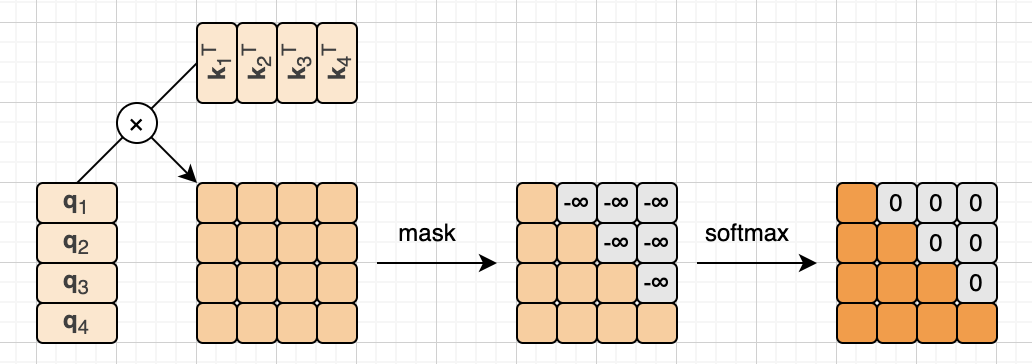
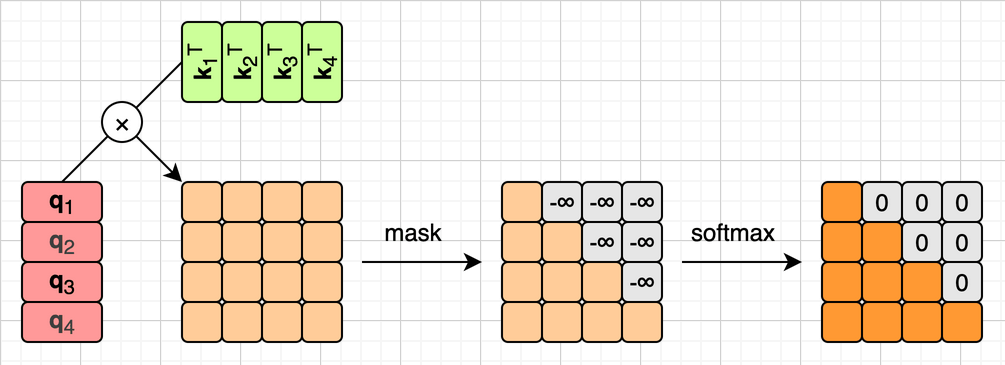
【toyllm】第六章补注意力展开式；新增 draw.io 导出脚本，shrink-images 阈值提到 0.2
- ch06：在加权求和之后把 p_ab 代入 Softmax 展开成一行，点出“缩放点积”
  的由来和位置无关性，为下一章 RoPE 铺垫；退化成平均的解释改为指向
  RoPE 和 FFN 两章
- books/toyllm/export_drawio.py：按页名把 draw/chNN.drawio 导出到
  images/chNN/，用无头 Chrome 叠上编辑器网格，导完自动调用 shrink-images
- shrink-images：带网格的插图量化误差到 0.136，AUTO 阈值从 0.1 提到 0.2；
  省得少时区分“已压过”和“误差超阈值只做了无损”两种原因；uv 加
  --native-tls
- toyllm/CLAUDE.md：第六章仍有本章代码块和破折号，状态改回 ch01–ch05

diff --git a/books/toyllm/export_drawio.py b/books/toyllm/export_drawio.py
@@ -1,0 +1,200 @@
+#!/usr/bin/env python3
+"""把某一章的 draw/chNN.drawio 逐页导出成 images/chNN/<页名>.png。
+
+一章一个 .drawio 文件，一页一张图，页名就是图片的文件名。导出靠 draw.io 桌面版
+自带的命令行，只用标准库，系统自带的 python3 就能跑。
+
+图上默认带着编辑器里那种网格。draw.io 的命令行导不出网格，所以分两步：
+draw.io 先导出透明背景的 PNG，再让无头 Chrome 把它叠到画好网格的白底上截图。
+网格的尺寸和颜色，是从 VS Code 插件里截的旧图上量出来的。
+
+导完再调用仓库的 shrink-images 技能（.claude/skills/shrink-images/），把刚导出的图
+压成8位调色板，一般能省一半多。压缩要用 uv，第一次会下载 pillow。
+
+用法（在 books/toyllm 下）：
+    python3 export_drawio.py ch06             # 也可以写成 6
+    python3 export_drawio.py ch06 view        # 只导出页名是 view 的那一页
+    python3 export_drawio.py ch06 view mask   # 可以一次写好几页
+    python3 export_drawio.py ch06 -n          # 只列出会导出什么，不真导出
+    python3 export_drawio.py ch06 --no-grid   # 纯白底，不要网格
+    python3 export_drawio.py ch06 --no-shrink # 导完不压缩
+
+注意 images/ 不在 git 里，导出会直接覆盖同名的图，覆盖了就找不回来。
+"""
+
+import argparse
+import shutil
+import subprocess
+import sys
+import tempfile
+import xml.etree.ElementTree as ET
+from pathlib import Path
+
+DRAWIO = "/Applications/draw.io.app/Contents/MacOS/draw.io"
+CHROME = "/Applications/Google Chrome.app/Contents/MacOS/Google Chrome"
+ROOT = Path(__file__).resolve().parent  # books/toyllm
+REPO = ROOT.parent.parent               # ann-book，仓库根
+SHRINK = REPO / ".claude" / "skills" / "shrink-images" / "scripts" / "shrink.py"
+
+SCALE = 2    # 正文用 zoom:50%，两倍图在高分屏上正好清楚
+BORDER = 10  # 四周留白，单位是 draw.io 里的单位，导出后乘以 SCALE
+
+# 网格，单位是导出后的像素。draw.io 的格子是10，乘以 SCALE 就是20；每4格一条粗线。
+# 细线2像素宽、#f6f6f6，粗线1像素宽、#d0d0d0，和旧截图逐像素对得上。
+# BORDER 是10的倍数，图形又都吸附在格子上，所以网格和图形的边是对齐的。
+GRID = 10 * SCALE
+GRID_STEPS = 4
+GRID_HTML = """<!doctype html><html><head><style>
+html, body {{ margin: 0; padding: 0; background: #fff; }}
+body {{
+  width: {w}px; height: {h}px;
+  background-image:
+    linear-gradient(to right,  #d0d0d0 1px, transparent 1px),
+    linear-gradient(to bottom, #d0d0d0 1px, transparent 1px),
+    linear-gradient(to right,  #f6f6f6 2px, transparent 2px),
+    linear-gradient(to bottom, #f6f6f6 2px, transparent 2px);
+  background-size: {major}px {major}px, {major}px {major}px, {minor}px {minor}px, {minor}px {minor}px;
+}}
+img {{ display: block; }}
+</style></head><body><img src="{img}"></body></html>
+"""
+
+
+def chapter_name(arg):
+    """`6`、`06`、`ch6`、`ch06` 都认，统一成 `ch06`。"""
+    num = arg.lower().removeprefix("ch")
+    if not num.isdigit():
+        sys.exit(f"看不懂章节号：{arg}，应该写成 ch06 或者 6")
+    return f"ch{int(num):02d}"
+
+
+def page_names(drawio):
+    """按顺序返回每一页的页名。draw.io 命令行的页码从1开始，比这个列表的下标大1。"""
+    return [d.get("name", "") for d in ET.parse(drawio).getroot().iter("diagram")]
+
+
+def is_default_name(name):
+    """draw.io 新建页面时的默认页名，Page-1、Page-2……"""
+    return name == "" or (name.startswith("Page-") and name[5:].isdigit())
+
+
+def export_png(drawio, index, out, transparent=False):
+    """用 draw.io 的命令行导出一页。页码从1开始。"""
+    cmd = [DRAWIO, "-x", "-f", "png", "-p", str(index), "-s", str(SCALE),
+           "-b", str(BORDER), "-o", str(out), str(drawio)]
+    if transparent:
+        cmd.insert(2, "-t")
+    result = subprocess.run(cmd, capture_output=True, text=True)
+    if result.returncode != 0 or not out.exists():
+        sys.exit(f"导出失败：{drawio.name} 第{index}页\n{result.stdout}{result.stderr}")
+
+
+def png_size(png):
+    """用 macOS 自带的 sips 读出图片的宽和高。"""
+    out = subprocess.run(["sips", "-g", "pixelWidth", "-g", "pixelHeight", str(png)],
+                         capture_output=True, text=True, check=True).stdout
+    values = [int(line.split()[-1]) for line in out.splitlines() if "pixel" in line]
+    return values[0], values[1]
+
+
+def add_grid(transparent_png, out):
+    """把透明背景的图叠到网格上：写一个网页，让无头 Chrome 按原图大小截图。"""
+    w, h = png_size(transparent_png)
+    html = transparent_png.with_suffix(".html")
+    html.write_text(GRID_HTML.format(w=w, h=h, img=transparent_png.name,
+                                     minor=GRID, major=GRID * GRID_STEPS))
+    cmd = [CHROME, "--headless=new", "--disable-gpu", "--hide-scrollbars",
+           "--force-device-scale-factor=1", f"--window-size={w},{h}",
+           f"--screenshot={out}", html.as_uri()]
+    if out.exists():
+        out.unlink()  # 免得 Chrome 失败时，留着旧图被当成成功
+    result = subprocess.run(cmd, capture_output=True, text=True)
+    if not out.exists() or png_size(out) != (w, h):
+        sys.exit(f"加网格失败：{out.name}\n{result.stderr[-2000:]}")
+
+
+def shrink(pngs):
+    """调用 shrink-images 技能，把刚导出的图压一遍。
+
+    shrink.py 用 PEP 723 声明依赖，必须用 uv 跑，系统 python3 没有 pillow。
+    --native-tls 让 uv 用系统证书下载 pillow，否则在某些网络环境下会报证书错误。
+    """
+    uv = shutil.which("uv")
+    if uv is None:
+        print("  没找到 uv，跳过压缩。可以装上 uv 以后重新导出，或者加 --no-shrink 不压缩")
+        return
+    print("\n压缩：", flush=True)
+    cmd = [uv, "run", "--native-tls", "--no-project", str(SHRINK)] + [str(p.relative_to(REPO)) for p in pngs]
+    result = subprocess.run(cmd, cwd=REPO, capture_output=True, text=True)
+    for line in result.stdout.splitlines():
+        print(f"  {line}" if line else "")
+    if result.returncode != 0:
+        sys.exit(f"压缩失败\n{result.stderr[-2000:]}")
+
+
+def main():
+    parser = argparse.ArgumentParser(description=__doc__.splitlines()[0])
+    parser.add_argument("chapter", help="要导出哪一章，比如 ch06 或者 6")
+    parser.add_argument("pages", nargs="*", help="只导出这几页（按页名），不写就是整章")
+    parser.add_argument("-n", "--dry-run", action="store_true", help="只列出，不导出")
+    parser.add_argument("--no-grid", action="store_true", help="纯白底，不要网格")
+    parser.add_argument("--no-shrink", action="store_true", help="导完不压缩")
+    args = parser.parse_args()
+
+    chapter = chapter_name(args.chapter)
+    drawio = ROOT / "draw" / f"{chapter}.drawio"
+    out_dir = ROOT / "images" / chapter
+    if not Path(DRAWIO).exists():
+        sys.exit(f"找不到 draw.io 桌面版：{DRAWIO}")
+    if not args.no_grid and not Path(CHROME).exists():
+        sys.exit(f"找不到 Google Chrome：{CHROME}，加网格要用它。不要网格的话加 --no-grid")
+    if not drawio.exists():
+        sys.exit(f"找不到 {drawio.relative_to(ROOT)}")
+    if drawio.stat().st_size == 0:
+        sys.exit(f"{drawio.relative_to(ROOT)} 是空文件")
+
+    names = page_names(drawio)
+    dupes = sorted({n for n in names if names.count(n) > 1 and not is_default_name(n)})
+    if dupes:
+        sys.exit(f"{drawio.name} 里有重名的页：{', '.join(dupes)}")
+
+    unknown = [p for p in args.pages if p not in names]
+    if unknown:
+        valid = ", ".join(n for n in names if not is_default_name(n))
+        sys.exit(f"{drawio.name} 里没有这些页：{', '.join(unknown)}\n有的页是：{valid}")
+
+    print(f"{drawio.relative_to(ROOT)}  {len(names)}页")
+    out_dir.mkdir(parents=True, exist_ok=True)
+    tmp = Path(tempfile.mkdtemp(prefix="export_drawio_"))
+    exported = []
+    for index, name in enumerate(names, 1):
+        if args.pages and name not in args.pages:
+            continue
+        if is_default_name(name):
+            print(f"  跳过  第{index:>2}页 {name!r}（默认页名）")
+            continue
+        out = out_dir / f"{name}.png"
+        print(f"  {'覆盖' if out.exists() else '新增'}  第{index:>2}页 → {out.relative_to(ROOT)}", flush=True)
+        if args.dry_run:
+            continue
+        if args.no_grid:
+            export_png(drawio, index, out)
+        else:
+            transparent = tmp / f"{name}.png"
+            export_png(drawio, index, transparent, transparent=True)
+            add_grid(transparent, out)
+        exported.append(out)
+
+    if exported and not args.no_shrink:
+        shrink(exported)
+
+    # 有图没页：多半是页名和文件名对不上，或者这张图画在别处。只导几页时不必查。
+    if args.pages:
+        return
+    orphans = sorted(p.name for p in out_dir.glob("*.png") if p.stem not in names)
+    if orphans:
+        print(f"  {out_dir.relative_to(ROOT)}里没有对应页的图：{', '.join(orphans)}")
+
+
+if __name__ == "__main__":
+    main()

diff --git a/.claude/skills/shrink-images/scripts/shrink.py b/.claude/skills/shrink-images/scripts/shrink.py
@@ -32,9 +32,11 @@ from lintscope import excluded
 WHITE = (255, 255, 255)
 
 # 量化误差阈值，来自仓库里这几类图的实测值（见 SKILL.md 的表）：
-# draw.io 插图 0.000~0.034，手画的图表 0.035~0.055，matplotlib 截图 0.237，
-# 带渐变的示意图 0.412，AI 章首图 3.519。
-AUTO = 0.1   # 误差在这以下：线稿图，直接量化
+# draw.io 插图 0.000~0.034（带编辑器网格的 0.010~0.136），手画的图表 0.035~0.055，
+# matplotlib 截图 0.237，带渐变的示意图 0.412，AI 章首图 3.519。
+# 网格带进来几千种抗锯齿的浅灰，把线稿图的误差抬高了一截，所以 AUTO 定在 0.2：
+# 带网格的插图都能自动量化，matplotlib 截图仍然挡在外面。
+AUTO = 0.2   # 误差在这以下：线稿图，直接量化
 ASK = 0.5    # 这之间：拿不准，报出来但不动，要量化得显式加 --palette
 
 # 省得太少就不重写，免得给 git 白添一个二进制大对象。
@@ -98,12 +100,15 @@ def shrink(path, palette_mode):
 
     # 压不出多少就不动它。重写一张已经压过的图，省下几百字节，却给 git
     # 添一个新的二进制大对象，不划算。
+    # 省得少有两种原因，要分开说：一是图本来就压过了；二是量化误差超了阈值，
+    # 只做了无损那一步，而无损本来就省不了多少。后者其实还没压过。
     size = os.path.getsize(path)
     saved = size - len(data)
-    if saved <= 0:
-        return None, f"已经压过了，重压反而大 {-saved:,} 字节，不动"
     if saved < max(size * MIN_RATIO, MIN_BYTES):
-        return None, f"已经压过了，再压只省 {saved:,} 字节（{100 * saved / size:.1f}%），不动"
+        amount = f"反而大 {-saved:,} 字节" if saved <= 0 else f"只省 {saved:,} 字节（{100 * saved / size:.1f}%）"
+        if not use_palette and palette_mode == "auto" and im.mode != "P":
+            return None, f"量化误差 {err:.3f} 偏大，只做无损，{amount}，不动"
+        return None, f"已经压过了，再压{amount}，不动"
     return data, how
 
 

diff --git a/books/toyllm/chapters/ch06_attn.md b/books/toyllm/chapters/ch06_attn.md
@@ -357,6 +357,18 @@ $$
 
 求和只加到 $a$ 为止，是因为后面那些位置被因果掩码盖住了，权重都是0，加了也白加。把它和本章开头那个加权求和公式放在一起对比一下，你会发现两者长得一模一样：权重 $w_{ij}$ 换成了算出来的 $p_{ab}$ ，被加起来的 $\mathbf{x}_j$ 换成了投影出来的 $\mathbf{v}_b$ 。绕了这么一大圈，注意力干的事情，说到底还是加权求和。
 
+我们还可以再进一步，把权重 $p_{ab}$ 也展开。它是注意力分数矩阵第 $a$ 行经过Softmax之后的第 $b$ 个数，而那一行的分数，就是 $\mathbf{q}_a$ 和每个 $\mathbf{k}_b$ 的点积再除以 $\sqrt{d_k}$ 。把Softmax公式代进去，就得到下面这个式子：
+
+$$
+\mathbf{o}_a = \sum_{b=1}^{a}
+\frac{\exp(\mathbf{q}_a \cdot \mathbf{k}_b / \sqrt{d_k})}{\sum_{c=1}^{a} \exp(\mathbf{q}_a \cdot \mathbf{k}_c / \sqrt{d_k})}
+\mathbf{v}_b
+$$
+
+其中 $\exp(x)$ 就是 $e^x$ ，只是指数部分太长，换个写法看得清楚些。这个式子把一个头里对第 $a$ 个词元做的事情，全都摊在了一行里：分子是 $\mathbf{q}_a$ 和 $\mathbf{k}_b$ 的点积，第 $b$ 个词元能分到多少权重，取决于它的K和第 $a$ 个词元的Q有多像；分母把前 $a$ 个词元的这个值全加起来，保证权重之和等于1；两处求和都只加到 $a$ ，这就是因果掩码。注意，Softmax是对一整行做的，不能拿单独一个点积去算，所以分母里要换一个下标 $c$ ，把这一行都加一遍。
+
+前面说过，标准注意力又叫缩放点积注意力。这个名字里的两样东西，在式子里都看得见：“点积”就是 $\mathbf{q}_a \cdot \mathbf{k}_b$ ，“缩放”就是后面那个除以 $\sqrt{d_k}$ 。这个式子还说明了一件事：第 $b$ 个词元贡献多少，只看它的 $\mathbf{k}_b$ 和 $\mathbf{v}_b$ ，和它排在第几位没有关系。这一点下一章讲位置编码时还会用到。
+
 我们看一个真实的例子。下面是我们这一章的引擎里，输入“Once upon a time”时，第0层第1个头的权重矩阵的第3行，也就是第3个词元`Ġa`的那一行（这一行出自随书源代码里的`inspect_attn.py`）：
 
 ```
@@ -523,7 +535,7 @@ ID     [6403, 1980, 253, 655]
 
 那为什么会卡在`ppo`上呢？简单地说，是因为现在的注意力几乎是在给整句话求平均。它的权重分得很平均，30层走下来，各个位置被抹成了差不多的样子：刚查出来的词嵌入，两两之间的余弦在-0.111到0.322之间，而30层走完之后，全都在0.983以上。所以送到出口的，其实是整句话的平均。出口拿着这个平均去词表里找最像的，`ppo`那一行的模长有4.441，比别人大一截，按余弦它只排第86，按点积却排第一，这和第四章`Hello`被`<filename>`抢走是同一件事。挑中`ppo`之后，把它追加到序列末尾，整句话的平均几乎不变，下一圈挑出来的还是它，于是就一直重复下去了。
 
-上面这些数字，都出自随书源代码里的`inspect_attn.py`脚本。至于注意力为什么会退化成平均，要等下一章补上RoPE之后才看得清楚。
+上面这些数字，都出自随书源代码里的`inspect_attn.py`脚本。至于注意力为什么会退化成平均，要等后面两章补上RoPE和FFN之后才看得清楚。
 
 最后说一下，怎么知道代码写对了。前面几章我们都会和`transformers`比一比，可这一章比不了，因为它的注意力带着RoPE，而我们的还没有。好在PyTorch自带了一个`F.scaled_dot_product_attention()`函数，正好就是“没有位置信息的因果注意力”。随书源代码里的`check_attn.py`脚本，就拿它和我们的`attn()`做了对比，两边只差浮点数的舍入误差，读者可以自己跑一下。
 

diff --git a/books/toyllm/CLAUDE.md b/books/toyllm/CLAUDE.md
@@ -61,7 +61,7 @@ Order follows the data flow of one forward pass, split into two parts.
 
 Note the chapter order **differs from the order the PoC was built in**, so a chapter's material usually lives in a differently-numbered step script. Three chapters have no single PoC counterpart: ch04 (the embedding/lm_head pair was never its own step), ch09 (the PoC never separated residuals from the Block), and ch12.
 
-Each unfinished chapter opens with a `> **本章代码**` blockquote stating what to build, the tensor shapes, the current engine state, what to diff against, and the known traps. **This block is scaffolding, not book content** — the author deletes it once the chapter's prose is written (ch01–ch06 no longer have one). Treat it as the chapter's build contract while drafting, and never as text a reader will see.
+Each unfinished chapter opens with a `> **本章代码**` blockquote stating what to build, the tensor shapes, the current engine state, what to diff against, and the known traps. **This block is scaffolding, not book content** — the author deletes it once the chapter's prose is written (ch01–ch05 no longer have one). Treat it as the chapter's build contract while drafting, and never as text a reader will see.
 
 A consequence: the diffing criteria live only in those blocks, in the code, and in this file. **The prose never mentions the baseline file or the tolerance table.** When a chapter needs to refer to the reference output, it points at something the reader has actually seen, e.g. 「和第一章那句话一字不差」 rather than 「和第一章那份基准逐字节相同」.
 
@@ -87,7 +87,7 @@ Downloads (weights, `uv sync`) must bypass Claude Code's proxy — prefix with
 
 The repo-wide rules live in `../../CLAUDE.md` — Simplified Chinese prose with English identifiers, no space between CJK and Latin/digits, full-width quotes, no em-dashes, and the notation convention (vectors **bold lowercase**, matrices plain uppercase). Only what is specific to this book is listed here.
 
-- **Em-dash cleanup is in progress**: 91 `——` remain in ch07–ch12 and `_preface.md`, from before the author's voice pass. Clear them as each chapter gets rewritten rather than in one sweep. (ch01–ch06 are clean.)
+- **Em-dash cleanup is in progress**: 110 `——` remain in ch06–ch12 and `_preface.md`, from before the author's voice pass. Clear them as each chapter gets rewritten rather than in one sweep. (ch01–ch05 are clean.)
 - **The model is always `SmolLM2`, never `SmolLM`.** This typo has recurred several times; grep for `SmolLM[^2]` after editing.
 - **Large integers fall into three classes**, and ch02/ch03 already follow this:
   - *Identifiers* never take a separator, because they say *which one*, not *how many*: token ids (46119), line numbers (第49347行), merge ranks (45867), code points (`U+0120`).
